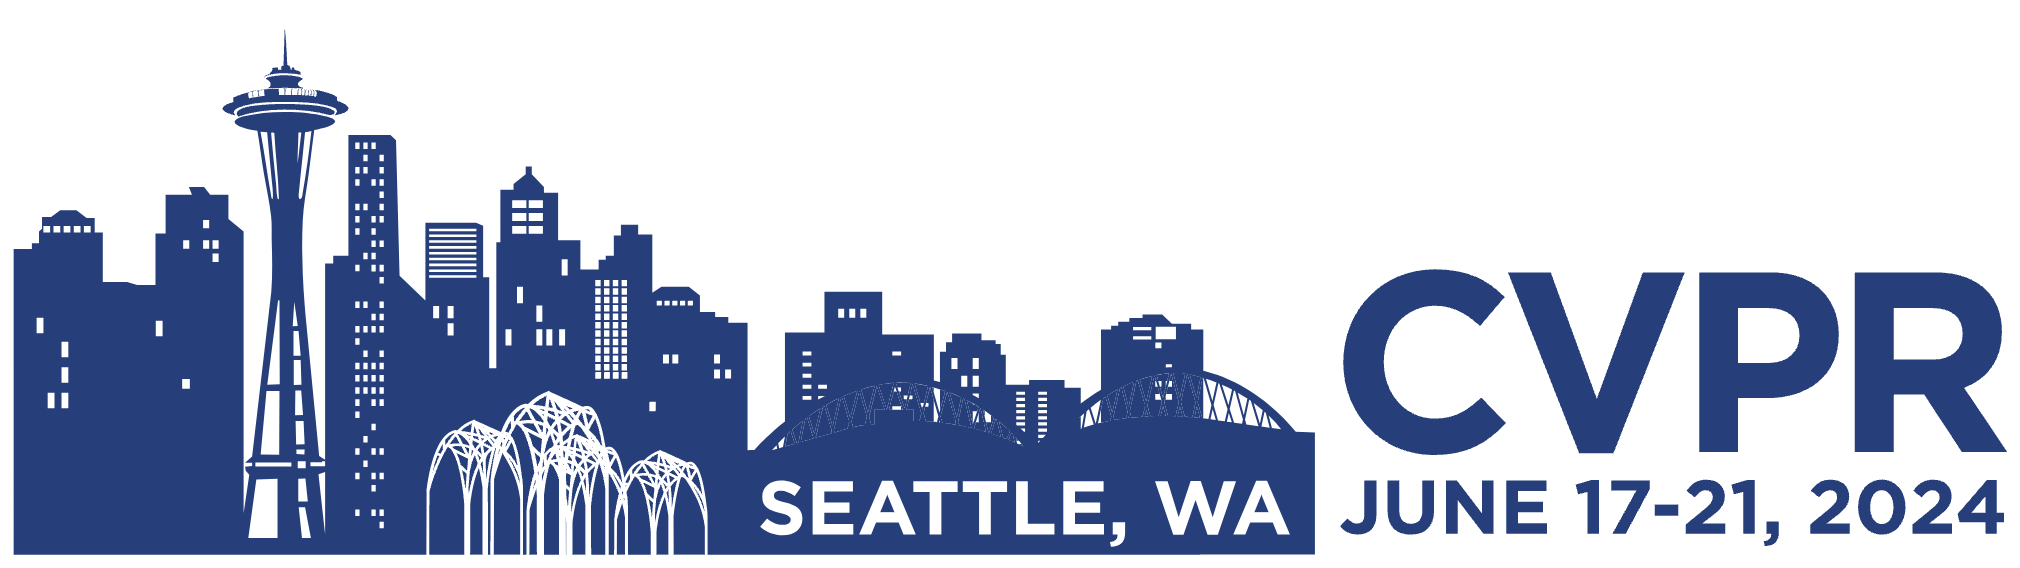
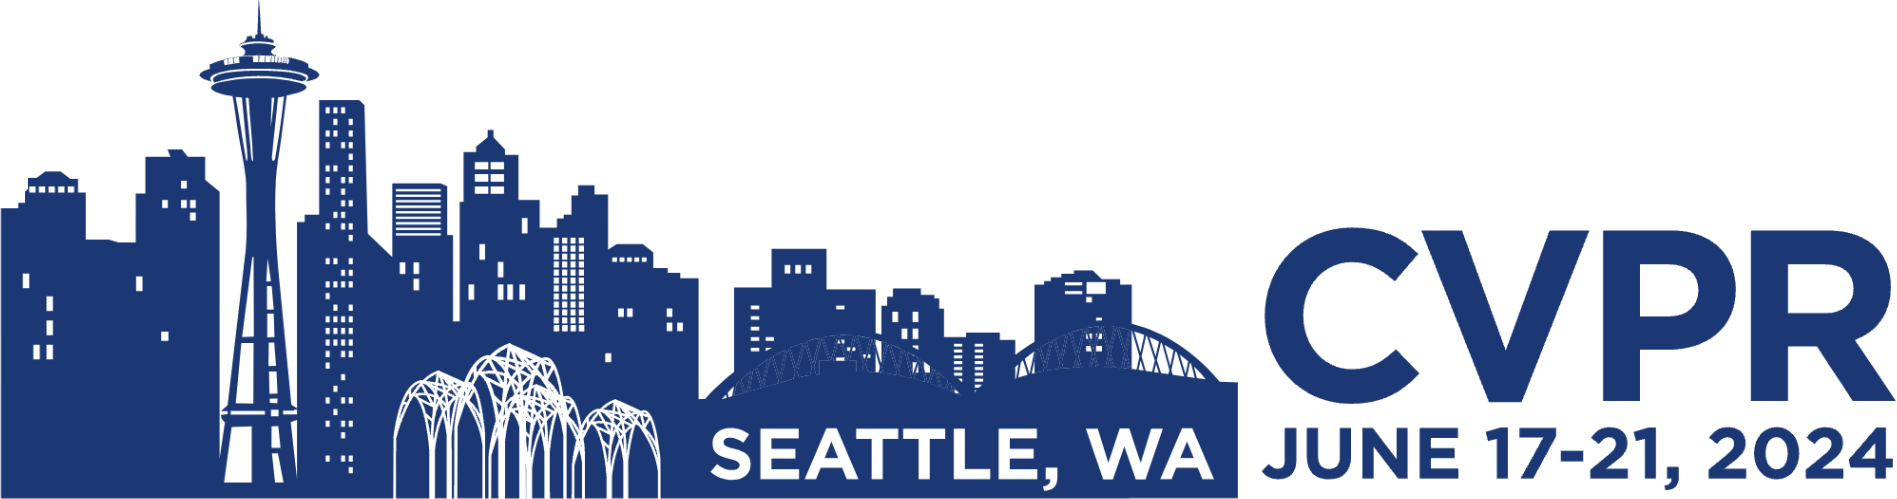
1

diff --git a/index.html b/index.html
@@ -212,7 +212,7 @@
       <header class="header navbar navbar-expand-lg navbar-light bg-light shadow-sm fixed-top">
         <div class="container px-3">
           <a href="index.html" class="navbar-brand pe-3">
-            <img src="./assets/img/cvpr.png" width="150" alt="Logo">
+            <img src="./assets/img/cvpr.png" width="175" alt="Logo">
 <!--             MIPI -->
           </a>
           <div id="navbarNav" class="offcanvas offcanvas-end">
